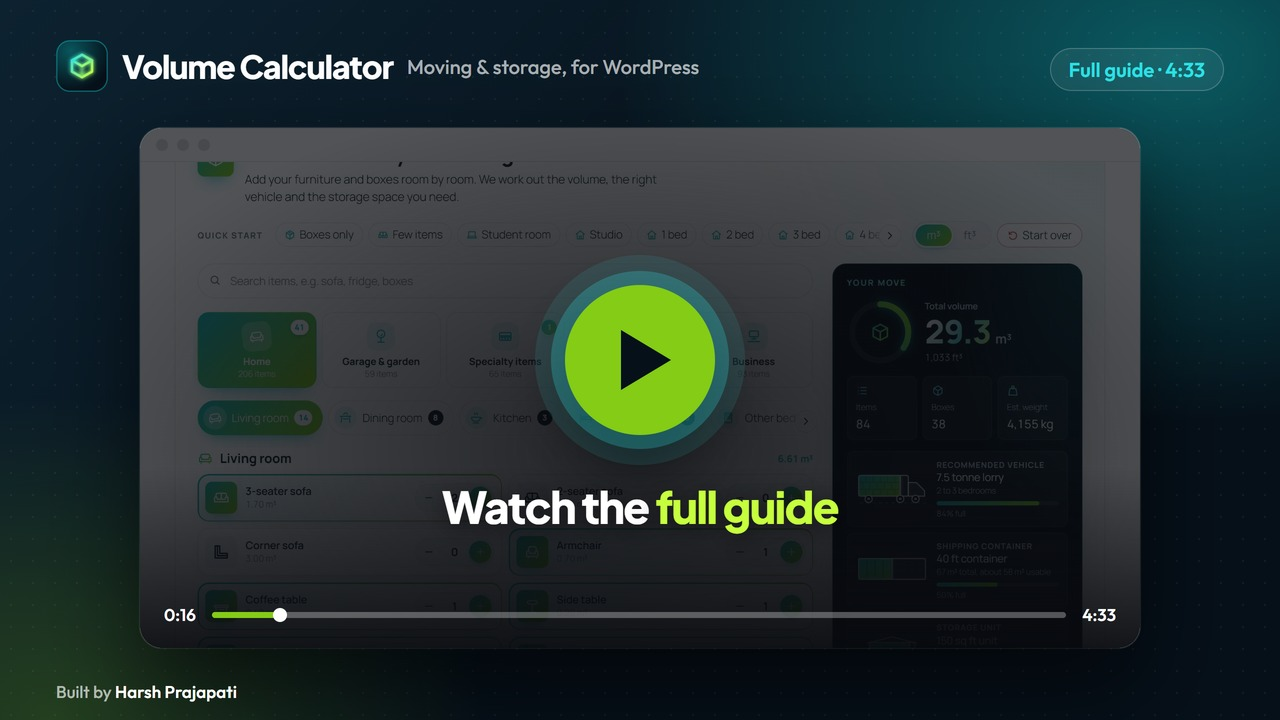
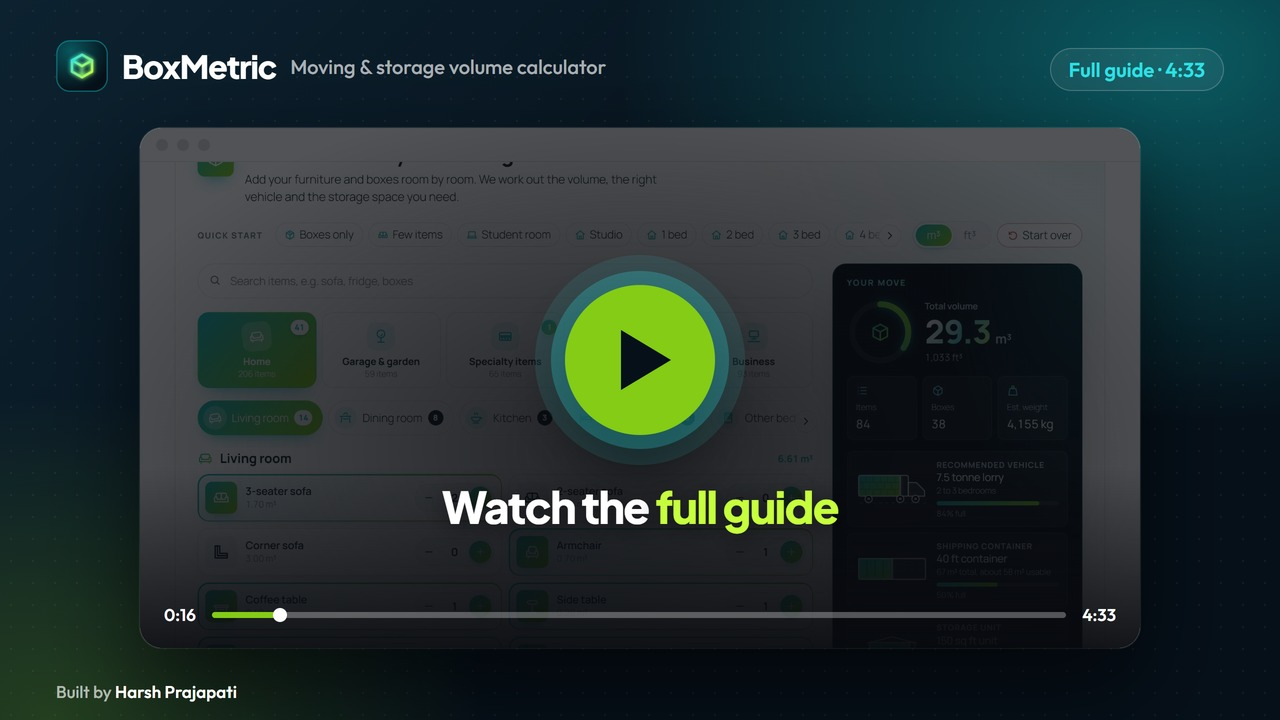
Harden the quote form and finish the BoxMetric rename
- Customer copy is now off by default, and each address gets at most
  one copy a day with a site-wide hourly cap, so the public form cannot
  be used to send mail to strangers.
- The daily lead clean-up re-schedules itself if the event goes missing.
- New msvcalc_client_ip filter for sites behind a proxy or CDN.
- A lead's Page link is only kept for addresses on this site.
- The failed-email notice shows on the plugin's own screens only.
- Translation template and README video preview use the new name.

Changed region(s): [[0.0938, 0.0611, 0.5625, 0.1222]]

diff --git a/includes/class-msvcalc-mailer.php b/includes/class-msvcalc-mailer.php
@@ -16,6 +16,11 @@ defined( 'ABSPATH' ) || exit;
 final class MSVCalc_Mailer {
 
 	/**
+	 * Most customer copies the site sends in one hour.
+	 */
+	const COPY_HOURLY_CAP = 20;
+
+	/**
 	 * Sends the notification to the business and, when enabled, a copy to the
 	 * customer. Values must already be sanitized.
 	 *
@@ -47,7 +52,7 @@ final class MSVCalc_Mailer {
 		$body       = self::body( $contact, $result, 'business', $admin_link );
 		$sent       = wp_mail( $to, self::header_text( $subject ), $body, $headers );
 
-		if ( $copy && MSVCalc_Settings::get( 'send_copy' ) ) {
+		if ( $copy && MSVCalc_Settings::get( 'send_copy' ) && self::copy_allowed( (string) $contact['email'] ) ) {
 			$copy_subject = sprintf(
 				/* translators: %s: company name. */
 				__( 'Your moving inventory for %s', 'boxmetric-moving-storage-volume-calculator' ),
@@ -61,6 +66,35 @@ final class MSVCalc_Mailer {
 		}
 
 		return (bool) $sent;
+	}
+
+	/**
+	 * Whether a customer copy may go to this address now. Each address gets
+	 * at most one copy a day, and the whole site at most a set number an
+	 * hour, so the public form cannot be used to send mail to strangers.
+	 *
+	 * @param string $email Customer email address.
+	 * @return bool
+	 */
+	private static function copy_allowed( string $email ): bool {
+		if ( ! is_email( $email ) ) {
+			return false;
+		}
+		$address = 'msvcalc_copy_' . substr( wp_hash( strtolower( $email ) ), 0, 20 );
+		$hour    = 'msvcalc_copies_' . gmdate( 'YmdH' );
+		/**
+		 * Filters how many customer copies the site may send in one hour.
+		 *
+		 * @param int $cap Copies per hour.
+		 */
+		$cap   = (int) apply_filters( 'msvcalc_copy_hourly_cap', self::COPY_HOURLY_CAP );
+		$count = (int) get_transient( $hour );
+		if ( get_transient( $address ) || $count >= $cap ) {
+			return false;
+		}
+		set_transient( $address, 1, DAY_IN_SECONDS );
+		set_transient( $hour, $count + 1, HOUR_IN_SECONDS );
+		return true;
 	}
 
 	/**

diff --git a/templates/admin-lead.php b/templates/admin-lead.php
@@ -363,7 +363,14 @@ $msvcalc_form = static function ( string $action ) use ( $lead_id ): void {
 				<div><dt><?php esc_html_e( 'Received', 'boxmetric-moving-storage-volume-calculator' ); ?></dt><dd><?php echo esc_html( wp_date( $msvcalc_datetime, $msvcalc_received ) ); ?></dd></div>
 				<div><dt><?php esc_html_e( 'Lead source', 'boxmetric-moving-storage-volume-calculator' ); ?></dt><dd><?php echo esc_html( MSVCalc_Leads::source_text( $lead_id ) ); ?></dd></div>
 				<?php if ( ! empty( $msvcalc_source['page'] ) ) : ?>
-					<div><dt><?php esc_html_e( 'Page', 'boxmetric-moving-storage-volume-calculator' ); ?></dt><dd><a href="<?php echo esc_url( (string) $msvcalc_source['page'] ); ?>" target="_blank" rel="noopener"><?php echo esc_html( (string) wp_parse_url( (string) $msvcalc_source['page'], PHP_URL_PATH ) ); ?></a></dd></div>
+					<?php $msvcalc_own_page = strtolower( (string) wp_parse_url( (string) $msvcalc_source['page'], PHP_URL_HOST ) ) === strtolower( (string) wp_parse_url( home_url(), PHP_URL_HOST ) ); ?>
+					<div><dt><?php esc_html_e( 'Page', 'boxmetric-moving-storage-volume-calculator' ); ?></dt><dd>
+						<?php if ( $msvcalc_own_page ) : ?>
+							<a href="<?php echo esc_url( (string) $msvcalc_source['page'] ); ?>" target="_blank" rel="noopener"><?php echo esc_html( (string) wp_parse_url( (string) $msvcalc_source['page'], PHP_URL_PATH ) ); ?></a>
+						<?php else : ?>
+							<?php echo esc_html( (string) $msvcalc_source['page'] ); ?>
+						<?php endif; ?>
+					</dd></div>
 				<?php endif; ?>
 				<?php if ( ! empty( $msvcalc_source['referrer'] ) ) : ?>
 					<div><dt><?php esc_html_e( 'Referrer', 'boxmetric-moving-storage-volume-calculator' ); ?></dt><dd><?php echo esc_html( (string) $msvcalc_source['referrer'] ); ?></dd></div>

diff --git a/includes/class-msvcalc-admin.php b/includes/class-msvcalc-admin.php
@@ -386,7 +386,7 @@ final class MSVCalc_Admin {
 			'quote_enabled'       => array( 'quote', __( 'Quote form', 'boxmetric-moving-storage-volume-calculator' ), 'checkbox', __( 'Let visitors send their inventory for a quote', 'boxmetric-moving-storage-volume-calculator' ) ),
 			'notify_email'        => array( 'quote', __( 'Send requests to', 'boxmetric-moving-storage-volume-calculator' ), 'email', (string) get_option( 'admin_email' ) ),
 			'company_name'        => array( 'quote', __( 'Company name', 'boxmetric-moving-storage-volume-calculator' ), 'text', MSVCalc_Settings::text( 'company_name' ) ),
-			'send_copy'           => array( 'quote', __( 'Customer copy', 'boxmetric-moving-storage-volume-calculator' ), 'checkbox', __( 'Email the customer a copy of their inventory', 'boxmetric-moving-storage-volume-calculator' ) ),
+			'send_copy'           => array( 'quote', __( 'Customer copy', 'boxmetric-moving-storage-volume-calculator' ), 'checkbox', __( 'Email the customer a copy of their inventory. Each address gets at most one copy a day.', 'boxmetric-moving-storage-volume-calculator' ) ),
 			'field_phone'         => array( 'quote', __( 'Phone field', 'boxmetric-moving-storage-volume-calculator' ), 'select', $visibility ),
 			'field_addresses'     => array( 'quote', __( 'From / to fields', 'boxmetric-moving-storage-volume-calculator' ), 'select', $visibility ),
 			'field_date'          => array( 'quote', __( 'Moving date field', 'boxmetric-moving-storage-volume-calculator' ), 'select', $visibility ),

diff --git a/includes/class-msvcalc-rest.php b/includes/class-msvcalc-rest.php
@@ -201,6 +201,10 @@ final class MSVCalc_REST {
 			'page'     => $url( $request->get_param( 'source' ) ),
 			'referrer' => $url( $request->get_param( 'referrer' ) ),
 		);
+		// The page must be on this site; anything else is dropped.
+		if ( '' !== $source['page'] && strtolower( (string) wp_parse_url( $source['page'], PHP_URL_HOST ) ) !== strtolower( (string) wp_parse_url( home_url(), PHP_URL_HOST ) ) ) {
+			$source['page'] = '';
+		}
 		$query  = (string) wp_parse_url( $source['page'], PHP_URL_QUERY );
 		$params = array();
 		wp_parse_str( $query, $params );
@@ -365,6 +369,14 @@ final class MSVCalc_REST {
 	 */
 	private static function rate_key(): string {
 		$ip = isset( $_SERVER['REMOTE_ADDR'] ) ? sanitize_text_field( wp_unslash( $_SERVER['REMOTE_ADDR'] ) ) : '';
+		/**
+		 * Filters the visitor IP address used for the rate limit. Sites behind
+		 * a proxy or CDN that does not pass on the real address can return it
+		 * here. Forwarded headers are not trusted by default.
+		 *
+		 * @param string $ip The REMOTE_ADDR value.
+		 */
+		$ip = (string) apply_filters( 'msvcalc_client_ip', $ip );
 		if ( '' === $ip || ! filter_var( $ip, FILTER_VALIDATE_IP ) ) {
 			$ip = 'unknown';
 		}

diff --git a/includes/class-msvcalc-leads-admin.php b/includes/class-msvcalc-leads-admin.php
@@ -179,14 +179,14 @@ final class MSVCalc_Leads_Admin {
 
 	/**
 	 * Warns staff when notification emails failed, so no enquiry goes
-	 * unnoticed. Shown on the Dashboard and the plugin's screens only.
+	 * unnoticed. Shown on the plugin's own screens only.
 	 */
 	public static function mail_notice(): void {
 		if ( ! current_user_can( MSVCalc_Leads::CAP ) ) {
 			return;
 		}
 		$screen = get_current_screen();
-		if ( ! $screen || ( 'dashboard' !== $screen->id && false === strpos( (string) $screen->id, MSVCalc_Admin::MENU_SLUG ) ) ) {
+		if ( ! $screen || false === strpos( (string) $screen->id, MSVCalc_Admin::MENU_SLUG ) ) {
 			return;
 		}
 		$failed = self::count_meta( MSVCalc_Leads::MAIL_META, 'failed' );

diff --git a/includes/class-msvcalc-leads.php b/includes/class-msvcalc-leads.php
@@ -119,6 +119,7 @@ final class MSVCalc_Leads {
 
 		if ( is_admin() ) {
 			add_action( 'admin_init', array( __CLASS__, 'upgrade' ) );
+			add_action( 'admin_init', array( __CLASS__, 'schedule' ) );
 			add_action( 'admin_post_msvcalc_export_leads', array( __CLASS__, 'export_csv' ) );
 		}
 	}

diff --git a/includes/class-msvcalc-settings.php b/includes/class-msvcalc-settings.php
@@ -150,7 +150,7 @@ final class MSVCalc_Settings {
 			),
 			'send_copy'           => array(
 				'type'    => 'bool',
-				'default' => true,
+				'default' => false,
 			),
 			'field_phone'         => array(
 				'type'    => 'enum',

diff --git a/README.md b/README.md
@@ -161,7 +161,7 @@ container and storage unit, every customer and move detail, and the full item li
 **Reply** goes straight to the customer.
 
 > [!NOTE]
-> If your site's email fails, the request is still saved as a lead and flagged. The Dashboard shows a notice,
+> If your site's email fails, the request is still saved as a lead and flagged. The plugin's screens show a notice,
 > and the lead has a **Send email again** button.
 
 ---
@@ -397,6 +397,8 @@ There is no build step for the scripts. The block uses the editor's global packa
 
 - **`msvcalc_quote_received`** (action)<br>Fires after a request is saved and emailed: `( int $lead_id, array $contact, array $result )`.
 - **`msvcalc_rate_limit`** (filter)<br>Requests allowed per visitor in the rate-limit window. Default `5`.
+- **`msvcalc_client_ip`** (filter)<br>The visitor IP address used for the rate limit. Sites behind a proxy or CDN that hides the real address can return it here.
+- **`msvcalc_copy_hourly_cap`** (filter)<br>Customer copies the site may send in one hour. Default `20`.
 - **`POST /wp-json/msvcalc/v1/quote`**<br>The endpoint the quote form sends to.
 
 </details>

diff --git a/CHANGELOG.md b/CHANGELOG.md
@@ -15,7 +15,7 @@ project uses [Semantic Versioning](https://semver.org/).
 - Box estimator: five quick questions suggest a count for each box size.
 - Quote form with a forgotten-rooms reminder that follows the chosen service, move details, consent and a confirmation screen.
 - Share link, branded print copy, and the list remembered in the visitor's browser.
-- Branded quote request email, with an optional copy for the customer.
+- Branded quote request email, with an optional copy for the customer (off by default, at most one a day per address).
 - Leads: statuses, follow-up reminders, notes, timeline, quick contact actions, and Excel, CSV and PDF export.
 - Failed-email flag with "Send email again", duplicate merging and rate limiting.
 - Staff access to Leads for Editors, privacy exporter and eraser, and automatic clean-up.
